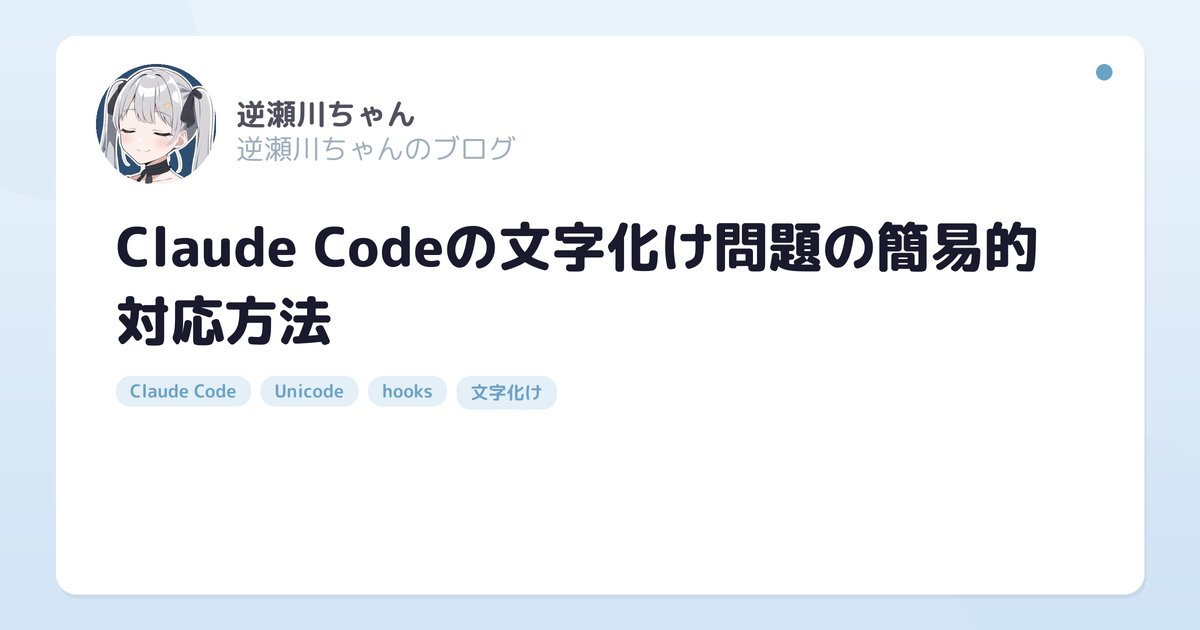
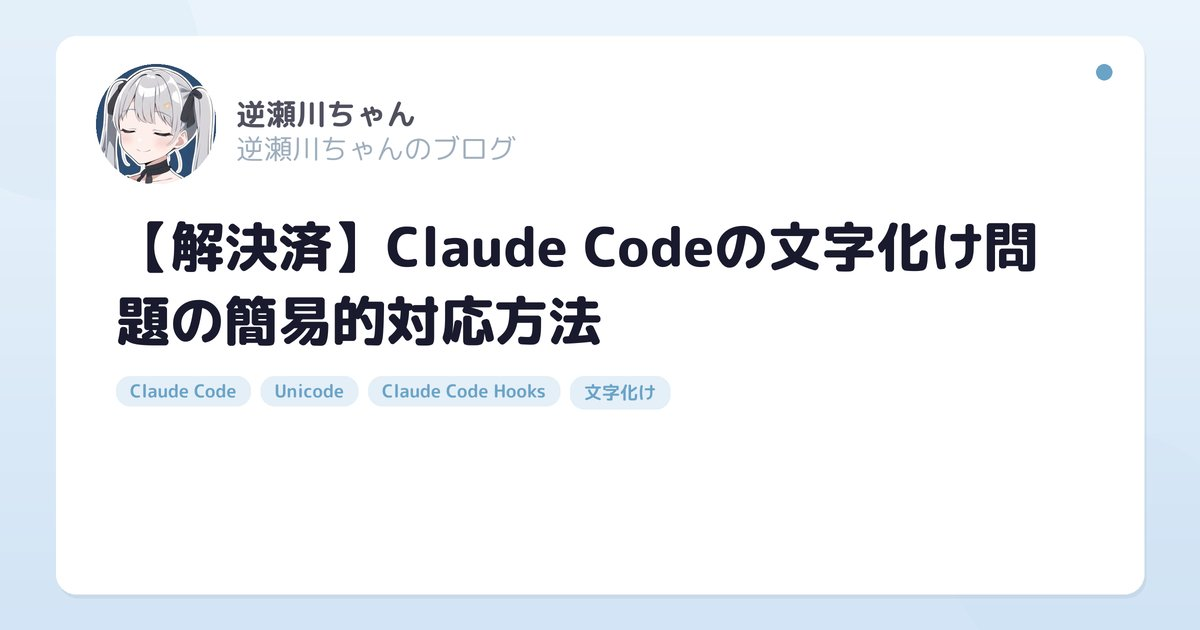
Update post: 文字化け問題がv2.1.94で解決済みであることを追記

Changed region(s): [[0.0925, 0.3317, 0.8633, 0.573], [0.3083, 0.573, 0.555, 0.6635]]

diff --git a/posts/claude-code-mojibake-workaround.md b/posts/claude-code-mojibake-workaround.md
@@ -1,5 +1,5 @@
 ---
-title: "Claude Codeの文字化け問題の簡易的対応方法"
+title: "【解決済】Claude Codeの文字化け問題の簡易的対応方法"
 description: "Claude CodeのWrite/Editで日本語が文字化け(U+FFFD)する問題に対して、hooksで暫定的に防ぐ方法を紹介します"
 date: 2026-04-07
 tags: [Claude Code, Unicode, Claude Code Hooks, 文字化け]
@@ -9,6 +9,8 @@ author: 逆瀬川ちゃん
 こんにちは！逆瀬川ちゃん ([@gyakuse](https://x.com/gyakuse)) です！
 
 今日はClaude Codeの最新バージョンで日本語を書いていると発生する文字化け問題と、hooksを使った簡易的な対応方法についてまとめていきたいと思います。
+
+**2026-04-08 追記**: Claude Code v2.1.94で本問題が修正されました🎉 SSEストリーミングでチャンク境界がUTF-8シーケンスを分断した際にCJK等のマルチバイト文字がU+FFFDに化ける問題が、stream-jsonの入出力レベルで修正されています。[Changelog](https://code.claude.com/docs/en/changelog#2-1-94)を参照してください。以下のhook対策はもう不要ですが、記録として残しておきます。
 
 **2026-04-07 追記**: 当初`PostToolUse`（書き込み後に検出）で紹介していましたが、`PreToolUse`（書き込み前に阻止）に変更しました。PostToolUseだとファイルへの書き込み自体は行われてしまうため、PreToolUseでtool inputの段階でU+FFFDを検出して書き込みを阻止する方式のほうが確実です。
 
